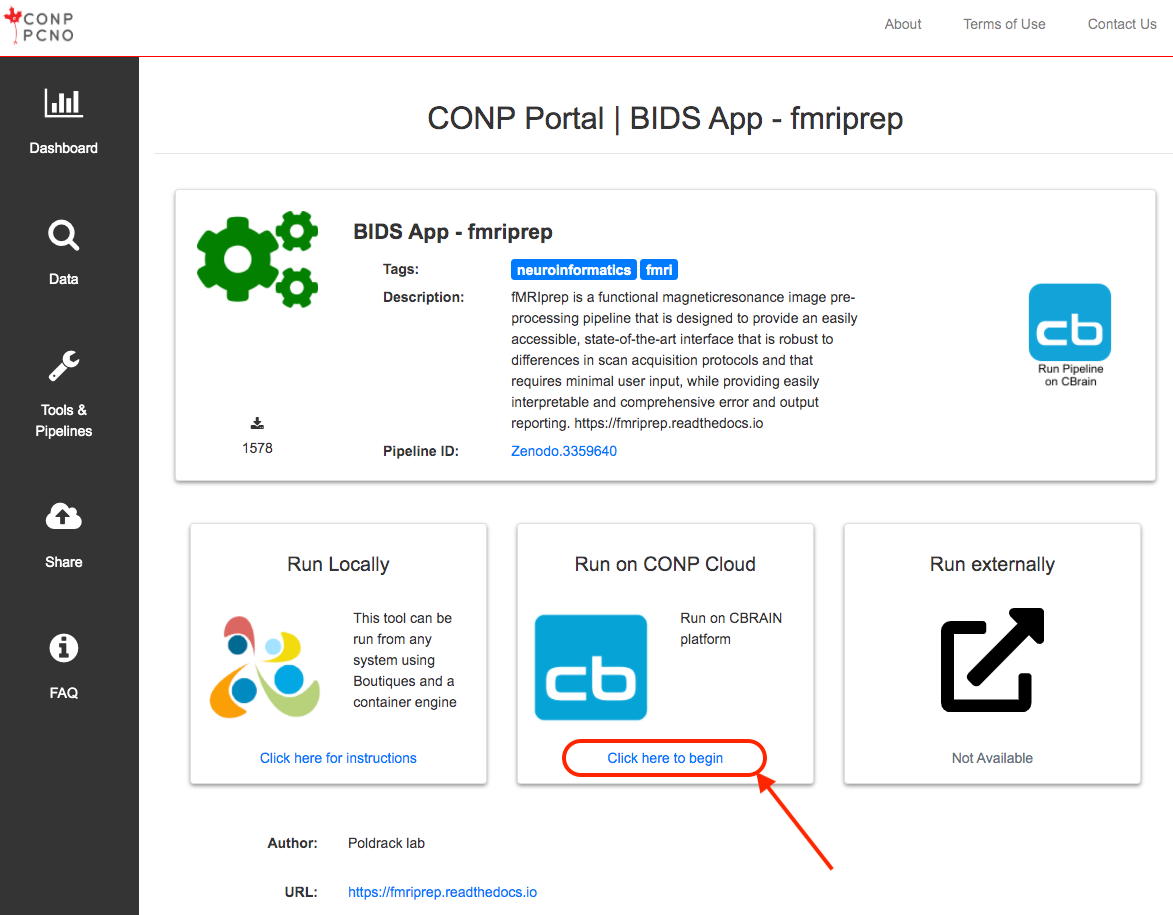
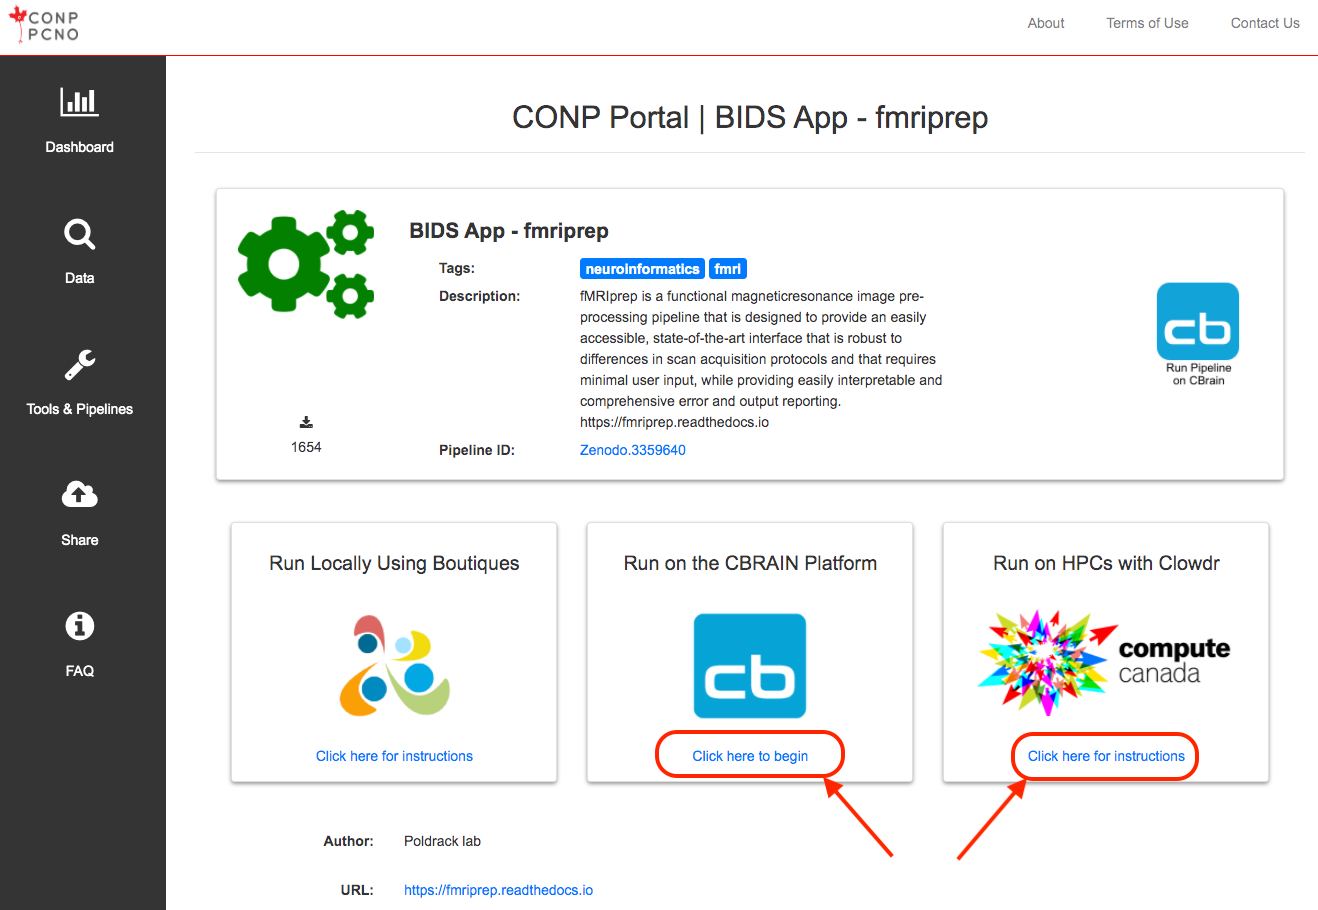
updated the tutorial documentation with the new pipeline container

diff --git a/CONP_portal_tutorial.md b/CONP_portal_tutorial.md
@@ -55,6 +55,8 @@ Clicking on a specific choice will bring the user to a more detailed page with l
 
 #### How to run the tool/pipeline?
 
+###### Run the tool locally
+
 Tools and pipelines can be run locally on any system using [Boutiques](https://boutiques.github.io) and a container engine ([Docker](http://www.docker.com) or [Singularity](https://sylabs.io/docs)) based on the Zenodo ID of the tool. The container image for the tool is listed in the detailed page of the tool/pipeline. 
 
 At the bottom of the pipeline page, detailed instructions on how to run the tool locally are available to the user. 
@@ -63,9 +65,14 @@ At the bottom of the pipeline page, detailed instructions on how to run the tool
 
 If you have never used [Boutiques](https://boutiques.github.io) in the past, we recommend the following [tutorial](https://nbviewer.jupyter.org/github/boutiques/tutorial/blob/master/notebooks/boutiques-tutorial.ipynb#reusing_tools).
 
-Some tools and pipelines can also be run on HPCs via the CBRAIN infrastructure. In that case, the ‘Run on CONP Cloud’ container at the top of the tool/pipeline detailed page will contain a link to CBRAIN where the tool/pipeline can be run.
+###### Run the tool on HPCs
+
+Some tools and pipelines can also be run on HPCs via the CBRAIN infrastructure or in your Compute Canada account with Clowdr. 
 
 ![SCREENSHOT of the CBRAIN link](https://raw.githubusercontent.com/CONP-PCNO/conp-documentation/master/img/CBRAIN_link_highlighted.png)
+
+The 'Click here to begin' link under the CBRAIN container will open a tab on your CBRAIN account. The 'Click here for instructions' link under the 'Run on HPCs with Clowdr' will open a new tab with the instructions to follow to deploy the tool/pipeline on your Compute Canada account.
+
 
 ## How can I upload my dataset?
 
